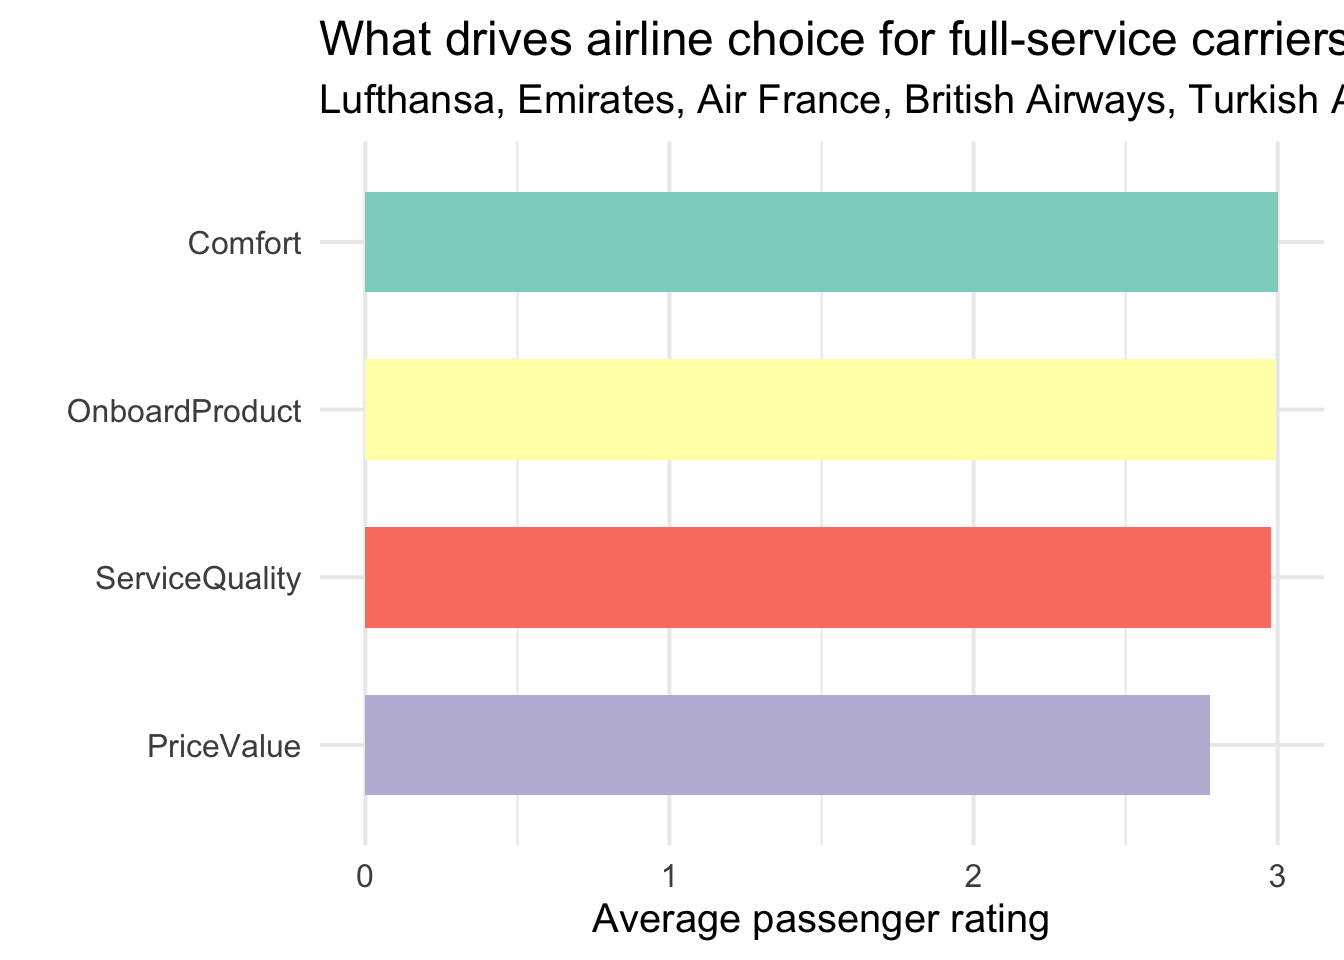
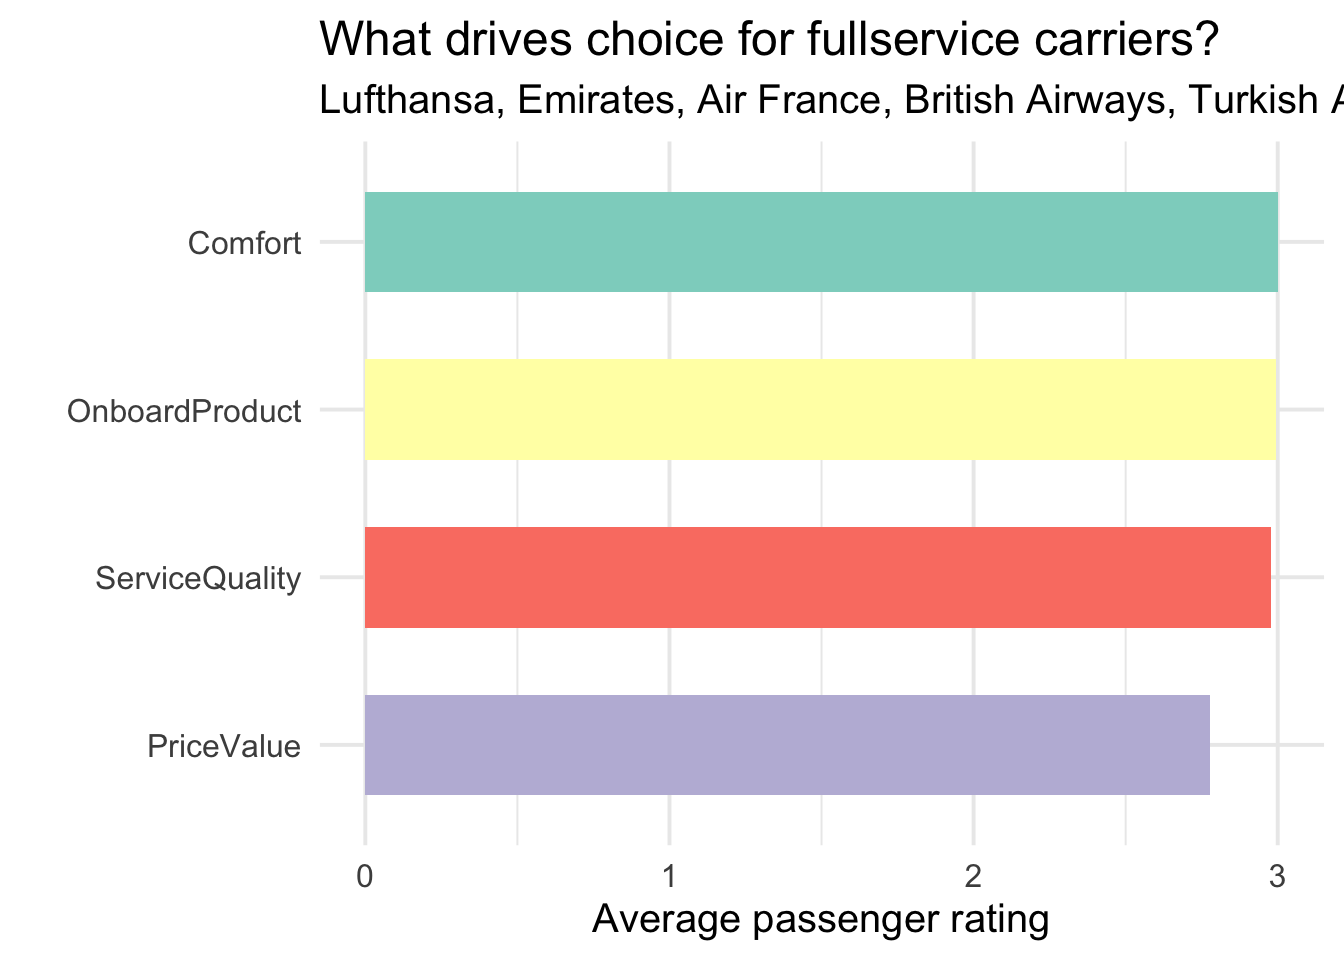
Built site for gh-pages

Changed region(s): [[0.4375, 0.0, 1.0, 0.0625]]

diff --git a/bibliography.html b/bibliography.html
@@ -136,6 +136,22 @@ ul.task-list li input[type="checkbox"] {
 
 
 
+<p><img src="images/clipboard-958419807.png" class="img-fluid"></p>
+<ul>
+<li><p>Arora, A., &amp; Sahu, K. (2013). Celebrity Endorsement: An Effective Marketing Tool. International Journal of Management Prudence, 5(2), 27-32.&nbsp;</p></li>
+<li><p>Banerji, Debojyoti, Raktim Pal, and Anindita Roy. 2023. “What Are the Most Important Consumer Decision Factors When Choosing an Airline?” Journal of Air Transport Management 110: 102418.&nbsp;</p></li>
+<li><p>Kim, D., Lim, C., &amp; Ha, H. (2024). Comparative analysis of changes in passenger’s perception for airline companies’ service quality before and during COVID-19 using topic modeling. Journal Of Air Transport Management, 115, 102542. https://doi.org/10.1016/j.jairtraman.2024.102542&nbsp;</p></li>
+<li><p>Kim, S., &amp; Park, J. (2017). A study on the importance of airline selection attributes by airline type : An emphasis on the difference of opinion in between Korean and overseas aviation experts. Journal Of Air Transport Management, 60, 76‑83. https://doi.org/10.1016/j.jairtraman.2017.01.007</p></li>
+<li><p>Kucukaltan, B., &amp; Topcu, Y. I. (2019). Assessment of key airline selection indicators in a strategic decision model. Journal Of Enterprise Information Management, 32(4), 646‑667. https://doi.org/10.1108/jeim-08-2018-0178&nbsp;</p></li>
+<li><p>Li, Y. (2025). Characterisation of Dynamic Pricing Strategies of Airline Tickets -China Southern Airlines as an Example. SHS Web Of Conferences, 225, 01006. https://doi.org/10.1051/shsconf/202522501006&nbsp;</p></li>
+<li><p>Mayer, Robert, et al.&nbsp;‘Passenger Perceptions of the Green Image Associated with Airlines’. Journal of Transport Geography, Special Section on Rail Transit Systems and High Speed Rail, vol.&nbsp;22, May 2012, pp.&nbsp;179–86. ScienceDirect, https://doi.org/10.1016/j.jtrangeo.2012.01.007.</p></li>
+<li><p>Nicolau, J. L., Shin, H., Kim, B., &amp; O’Connell, J. F. (2022). The Impact of Loss Aversion and Diminishing Sensitivity on Airline Revenue : Price Sensitivity in Cabin Classes. Journal Of Travel Research, 62(3), 685‑698. https://doi.org/10.1177/00472875221093014</p></li>
+<li><p>Park, J.-W. (2010). The effect of frequent flyer programs : A case study of the Korean airline industry. Journal of Air Transport Management, 16(5), 287‑288. https://doi.org/10.1016/j.jairtraman.2010.02.007</p></li>
+<li><p>Suzuki, Yoshinori. 2000. “The Relationship between On-Time Performance and Airline Market Share: A New Approach.” Transportation Research Part E: Logistics and Transportation Review 36 (2): 139–154.</p></li>
+<li><p>Ringle, Christian M., Marko Sarstedt, and Lorenz Zimmermann. 2011<strong>.</strong> “Customer Satisfaction with Commercial Airlines: The Role of Perceived Safety and Purpose of Travel.” Journal of Marketing Theory and Practice 19 (4): 459–472.</p></li>
+<li><p>Şahi̇N, D. R., &amp; Ci̇Ngoz, K. N. (2023). Evaluation of Passenger’s Airline Selection Criteria. International Journal Of Entrepreneurship And Management Inquiries, 7(12), 157‑166. https://doi.org/10.55775/ijemi.1216897</p></li>
+<li><p>Yas, Harith, Ahmad Jusoh, Khalil Md Nor, et al.&nbsp;« IMPACT OF AIRLINE SERVICE QUALITY ON PASSENGER SATISFACTION AND LOYALTY: MODERATING INFLUENCE OF PRICE SENSITIVITY AND QUALITY », TRANSFORMATIONS IN BUSINESS &amp; ECONOMICS. 2022, vol.21 no 3. p.&nbsp;120.</p></li>
+</ul>
 
 
 
